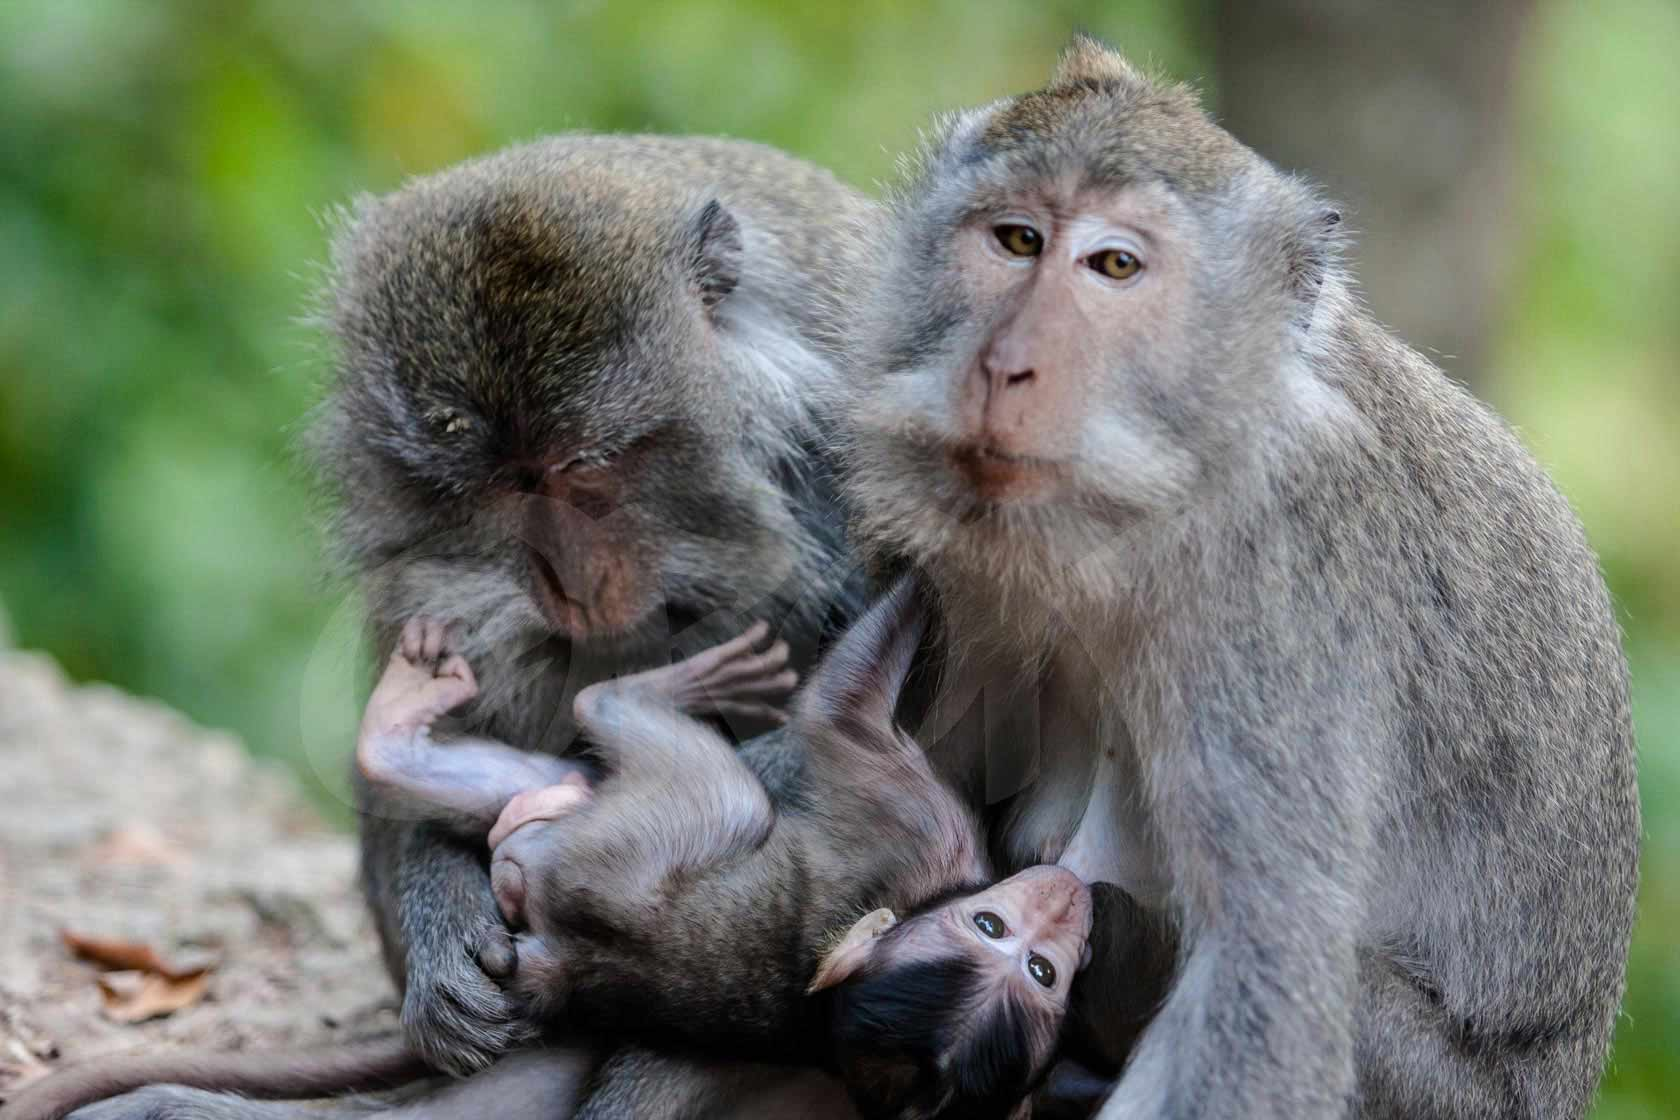
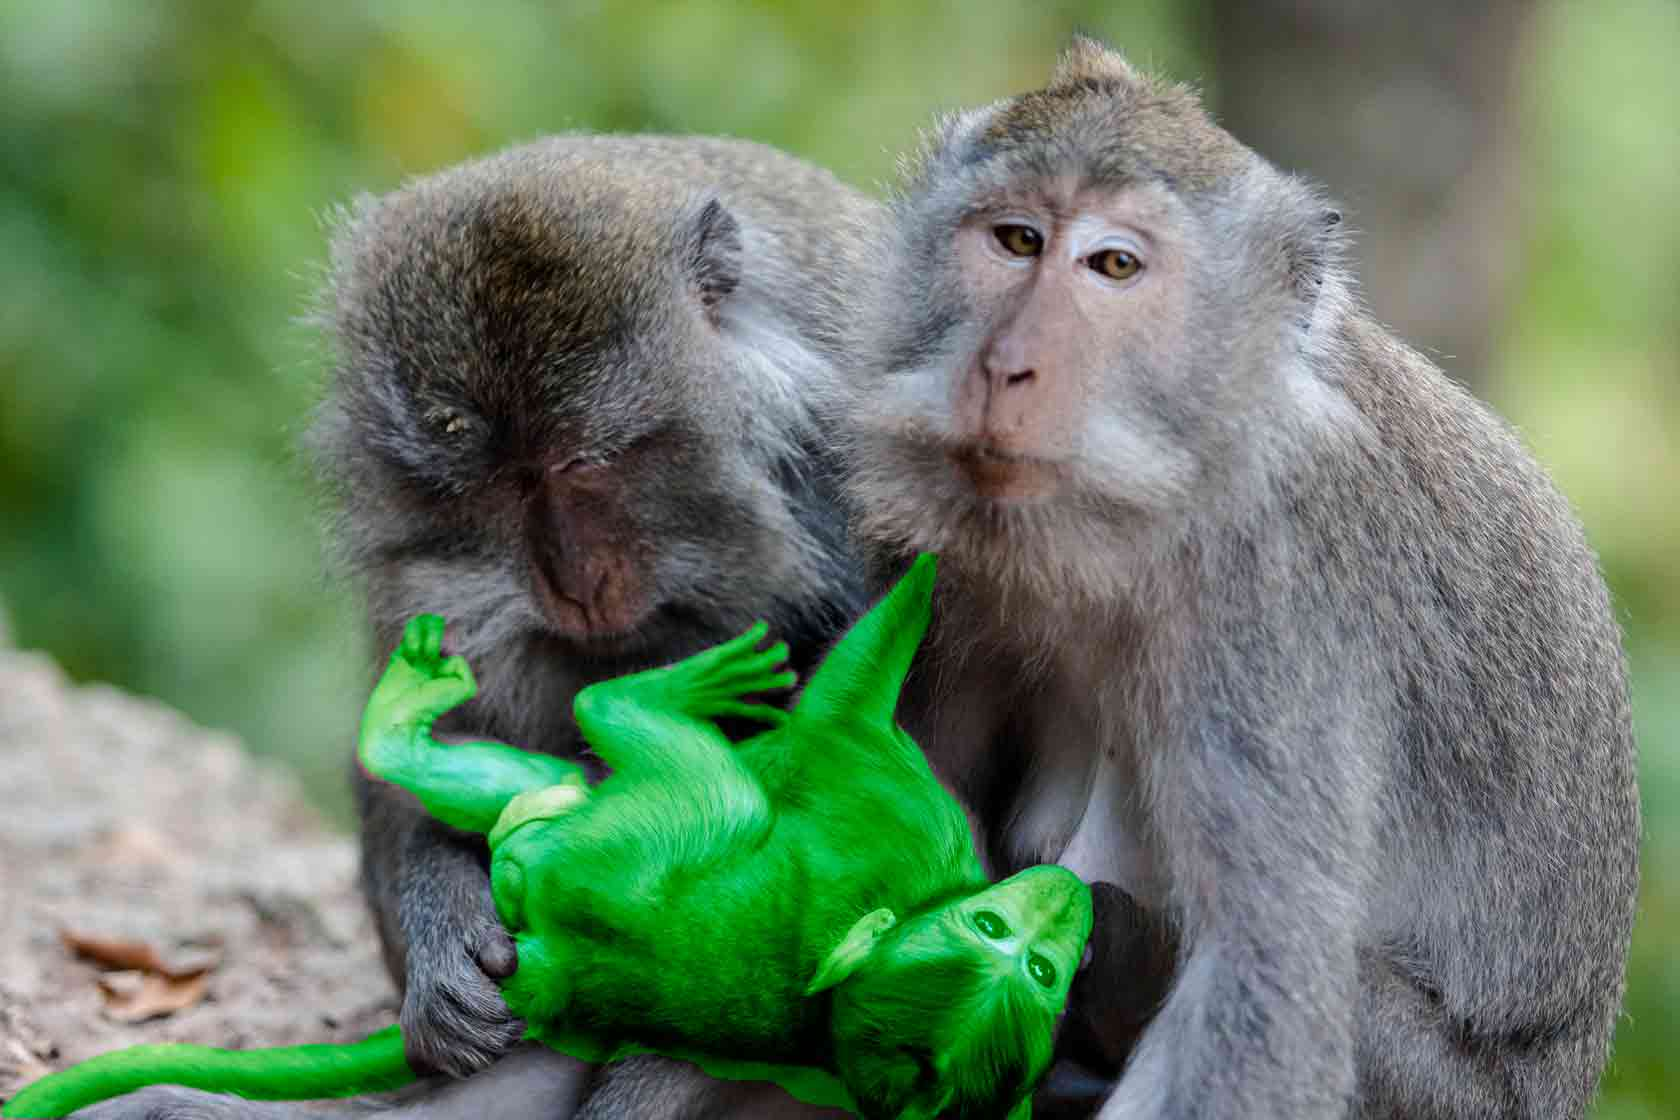
fixed layout recent fuck up + improved about-us

Changed region(s): [[0.1857, 0.4375, 0.65, 1.0], [0.8357, 0.4375, 0.9595, 0.7188], [0.0, 0.9062, 0.2476, 1.0]]

diff --git a/_sass/_topics.scss b/_sass/_topics.scss
@@ -62,19 +62,19 @@ figure {
   padding: 0 $vertical_rhythm--small;
   margin-top: $vertical_rhythm--small;
   margin-bottom: $vertical_rhythm--small;
-  display: -webkit-box;
-  display: -ms-flexbox;
-  display: flex;
-  -webkit-box-orient: vertical;
-  -webkit-box-direction: normal;
-      -ms-flex-direction: column;
-          flex-direction: column;
-  -webkit-box-align: start;
-      -ms-flex-align: start;
-          align-items: flex-start;
-  -webkit-box-pack: justify;
-      -ms-flex-pack: justify;
-          justify-content: space-between;
+  // display: -webkit-box;
+  // display: -ms-flexbox;
+  // display: flex;
+  // -webkit-box-orient: vertical;
+  // -webkit-box-direction: normal;
+  //     -ms-flex-direction: column;
+  //         flex-direction: column;
+  // -webkit-box-align: start;
+  //     -ms-flex-align: start;
+  //         align-items: flex-start;
+  // -webkit-box-pack: justify;
+  //     -ms-flex-pack: justify;
+  //         justify-content: space-between;
 }
 
 blockquote p {

diff --git a/_includes/head.html b/_includes/head.html
@@ -5,7 +5,7 @@
 
   <title>{{ site.title }} | {% if page.layout == 'home' %}{{ site.subtitle | upcase }}{% else %}{{ page.title | upcase }}{% endif %}</title>
 
-  <meta name="description" content="{% if page.description %}{{ page.description | truncate: 160 }}{% else %}{{ site.description  | truncate: 160 }}{% endif %}">
+  <meta name="description" content="{% if page.description %}{{ page.description }}{% else %}{{ site.description }}{% endif %}">
 
   <meta name="keywords" content="{% if page.keywords %}{{ page.keywords}}{% else %}{{ site.keywords }}{% endif %}">
 

diff --git a/_includes/topic_loop_group.html b/_includes/topic_loop_group.html
@@ -1,5 +1,11 @@
 <div class="topic_page_title">
+
   <h1>{{page.title}}</h1>
+
+  {% if page.description %}
+    <h2>{{page.description}}</h2>
+  {% endif %}
+
 </div>
 
 <div class="topic_grid">

diff --git a/_pages/about-us.md b/_pages/about-us.md
@@ -3,7 +3,7 @@ layout: topic
 name: About us
 subtitle:
 topic_group: about
-description: #
+description: We are a network of communication professionals, with a solid experience producing communication tools, who feel the need to make something meaningful and necessary. We'd like to give a contribution to push the world towards the right direction. Help us spread the word.
 image: /assets/p/about/about-us.jpg
 many_pictures: # 'true' or empty
 publish: # use 'notyet' to print 'coming soon'
@@ -12,7 +12,7 @@ featured: # use 'true' to have it displayed in home
 ---
 
 
-# The reasons driving us.
+# Feeding the green baby.
 
 The growing concern about the ecological impact is a fact worldwide. In recent years there is lots of press about the environment and how to preserve it. Media are urging to clean up our actions and change the way we operate.
 

diff --git a/_topics/products/et-electric-foldable-scooter.md b/_topics/products/et-electric-foldable-scooter.md
@@ -1,6 +1,6 @@
 ---
 name: ET foldable e-scooter
-subtitle: Plug-it pack-it and ride smart.
+subtitle: Plug-it, pack-it and ride smart.
 description: #
 topic_group: products
 image: /assets/p/topics/products/et-foldable-e-scooter.jpg #for OG and twitter cards

diff --git a/_pages/products.md b/_pages/products.md
@@ -1,0 +1,7 @@
+---
+layout: topic_index
+title: Products
+topic_group: products
+description: Sometimes it's as easy as stop buying polluting items and start supporting more sustainable ones.
+image: /assets/p/topics/products/og.jpg
+---

diff --git a/_pages/services.md b/_pages/services.md
@@ -2,6 +2,6 @@
 layout: topic_index
 title: Services
 topic_group: services
-description: #
-image: /assets/p/topics/services/01.jpg
+description: Services to lower your environmental impact.
+image: /assets/p/topics/services/og.jpg
 ---

diff --git a/_pages/resources.md b/_pages/resources.md
@@ -1,0 +1,7 @@
+---
+layout: topic_index
+title: Resources
+topic_group: resources
+description: To solve big problems we need resources. Here is who can help and who is worth supporting.
+image: /assets/p/topics/resources/og.jpg
+---

diff --git a/_pages/tips.md b/_pages/tips.md
@@ -1,0 +1,7 @@
+---
+layout: topic_index
+title: Tips
+topic_group: tips
+description: We can start improving our everyday activities. Here are some tips, tutorial, how-to form experts.
+image: /assets/p/topics/tips/og.jpg
+---

diff --git a/_pages/knowledge.md b/_pages/knowledge.md
@@ -1,0 +1,7 @@
+---
+layout: topic_index
+title: Knowledge
+topic_group: knowledge
+description: Did you know that... No I didn't yet. Thanks for letting me know!
+image: /assets/p/topics/knowledge/og.jpg
+---

diff --git a/_pages/solutions.md b/_pages/solutions.md
@@ -1,0 +1,7 @@
+---
+layout: topic_index
+title: Solutions
+topic_group: solutions
+description: Small or big, here are some solution to environmental problems.
+image: /assets/p/topics/solutions/og.jpg
+---

diff --git a/_pages/techniques.md b/_pages/techniques.md
@@ -1,0 +1,7 @@
+---
+layout: topic_index
+title: Techniques
+topic_group: techniques
+description: The way to be green explained in details.
+image: /assets/p/topics/techniques/og.jpg
+---
